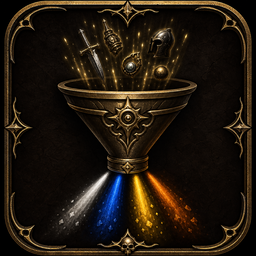
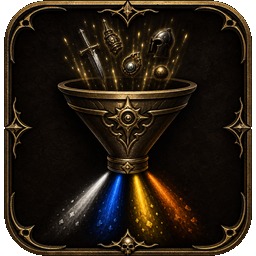
ci: 🚀 publish extension to Open VSX alongside VS Code Marketplace
* ci: 🚀 publish extension to Open VSX alongside VS Code Marketplace

Dual-publish on release so Cursor, VSCodium, and other Open VSX editors can install the extension from their marketplace.

* docs: 📝 label marketplace badges and add Open VSX downloads badge

Install and rating shields only reflect the VS Code Marketplace; show Open VSX downloads separately instead of implying a combined total.

* docs: 📝 group marketplace and Open VSX badges on separate rows

Each registry gets its own version, installs/downloads, and rating badges.

* docs: 📝 restore inline badges and drop README icon header

Use proven markdown badge rows for marketplace and Open VSX. Make icon corner pixels transparent for cleaner marketplace and editor display.

---------

Changed region(s): [[0.8438, 0.0, 1.0, 1.0], [0.0, 0.0, 0.1562, 1.0]]

diff --git a/README.md b/README.md
@@ -1,14 +1,10 @@
-<p align="center">
-  <img src="images/icon.png" alt="Path of Exile 2 Filter" width="96" />
-</p>
-
 # Path of Exile 2 Filter
 
 > Write, validate, and preview Path of Exile 2 item filters without leaving your editor — IntelliSense, live error checking, quick fixes, and an in-editor visual preview.
 
-[![Version](https://vsmarketplacebadges.dev/version-short/thmsn.poe2-filter.svg?label=Marketplace)](https://marketplace.visualstudio.com/items?itemName=thmsn.poe2-filter)
-[![Installs](https://vsmarketplacebadges.dev/installs-short/thmsn.poe2-filter.svg)](https://marketplace.visualstudio.com/items?itemName=thmsn.poe2-filter)
-[![Rating](https://vsmarketplacebadges.dev/rating-star/thmsn.poe2-filter.svg)](https://marketplace.visualstudio.com/items?itemName=thmsn.poe2-filter&ssr=false#review-details)
+[![Version](https://vsmarketplacebadges.dev/version-short/thmsn.poe2-filter.svg?label=Marketplace)](https://marketplace.visualstudio.com/items?itemName=thmsn.poe2-filter) [![Installs](https://vsmarketplacebadges.dev/installs-short/thmsn.poe2-filter.svg)](https://marketplace.visualstudio.com/items?itemName=thmsn.poe2-filter) [![Rating](https://vsmarketplacebadges.dev/rating-star/thmsn.poe2-filter.svg)](https://marketplace.visualstudio.com/items?itemName=thmsn.poe2-filter&ssr=false#review-details)
+
+[![Open VSX Version](https://img.shields.io/open-vsx/v/thmsn/poe2-filter?label=Open%20VSX)](https://open-vsx.org/extension/thmsn/poe2-filter) [![Open VSX Downloads](https://img.shields.io/open-vsx/dt/thmsn/poe2-filter?label=downloads)](https://open-vsx.org/extension/thmsn/poe2-filter) [![Open VSX Rating](https://img.shields.io/open-vsx/rating/thmsn/poe2-filter?label=rating)](https://open-vsx.org/extension/thmsn/poe2-filter)
 
 ![Editing a filter with IntelliSense and live diagnostics](images/hero.gif)
 
@@ -287,7 +283,7 @@ Filters generated by tools like [FilterBlade](https://www.filterblade.xyz/?game=
 
 ## Getting started
 
-1. Install **Path of Exile 2 Filter** from the [VS Code Marketplace](https://marketplace.visualstudio.com/items?itemName=thmsn.poe2-filter) (or search for it in the Extensions view).
+1. Install **Path of Exile 2 Filter** from the [VS Code Marketplace](https://marketplace.visualstudio.com/items?itemName=thmsn.poe2-filter) or [Open VSX](https://open-vsx.org/extension/thmsn/poe2-filter) (for VSCodium, Cursor, Windsurf, and other VS Code–compatible editors).
 2. Open any `.filter` file — language features activate automatically.
 3. Open the visual preview with the editor title-bar icon or the "Show Filter Preview" command.
 
@@ -347,7 +343,7 @@ This project uses [release-please](https://github.com/googleapis/release-please)
    - It determines the next version based on semantic versioning
    - It opens a release PR with the updated version and changelog
    - Merging that PR creates a GitHub release
-   - The release triggers automatic publishing to the VS Code Marketplace
+   - The release triggers automatic publishing to the VS Code Marketplace and Open VSX
 
 3. **Commit message examples**:
 
@@ -365,19 +361,29 @@ pnpm install
 pnpm package
 ```
 
-`pnpm package` runs `vsce package --no-dependencies` and produces a `.vsix` you can install locally via the Extensions view ("Install from VSIX...").
+`pnpm package` runs `vsce package --no-dependencies` and produces `poe2-filter.vsix`, which you can install locally via the Extensions view ("Install from VSIX...").
 
 ### Publishing
 
 Publishing is normally automated via release-please. To publish manually:
 
-1. Ensure you have a Personal Access Token (PAT) from the [VS Code Marketplace](https://marketplace.visualstudio.com/manage).
-2. Authenticate once with `pnpm exec vsce login thmsn`.
-3. Build and publish:
+1. **VS Code Marketplace** — create a Personal Access Token (PAT) at [marketplace.visualstudio.com/manage](https://marketplace.visualstudio.com/manage), then authenticate once with `pnpm exec vsce login thmsn`.
+2. **Open VSX** — register at [open-vsx.org](https://open-vsx.org/), sign the [Publisher Agreement](https://github.com/eclipse-openvsx/openvsx/wiki/Publishing-Extensions), create an access token at [open-vsx.org/user-settings/tokens](https://open-vsx.org/user-settings/tokens), and create the `thmsn` namespace once:
 
    ```bash
-   pnpm vsce:publish
+   pnpm exec ovsx create-namespace thmsn -p <token>
    ```
+
+3. Build, package, and publish:
+
+   ```bash
+   pnpm run build
+   pnpm run package
+   pnpm run vsce:publish    # requires VSCE_PAT
+   pnpm run ovsx:publish    # requires OVSX_PAT
+   ```
+
+For CI, add an `OVSX_PAT` repository secret alongside the existing `VSCE_PAT`. The publish workflows skip Open VSX when that secret is not set.
 
 ## Credits
 
